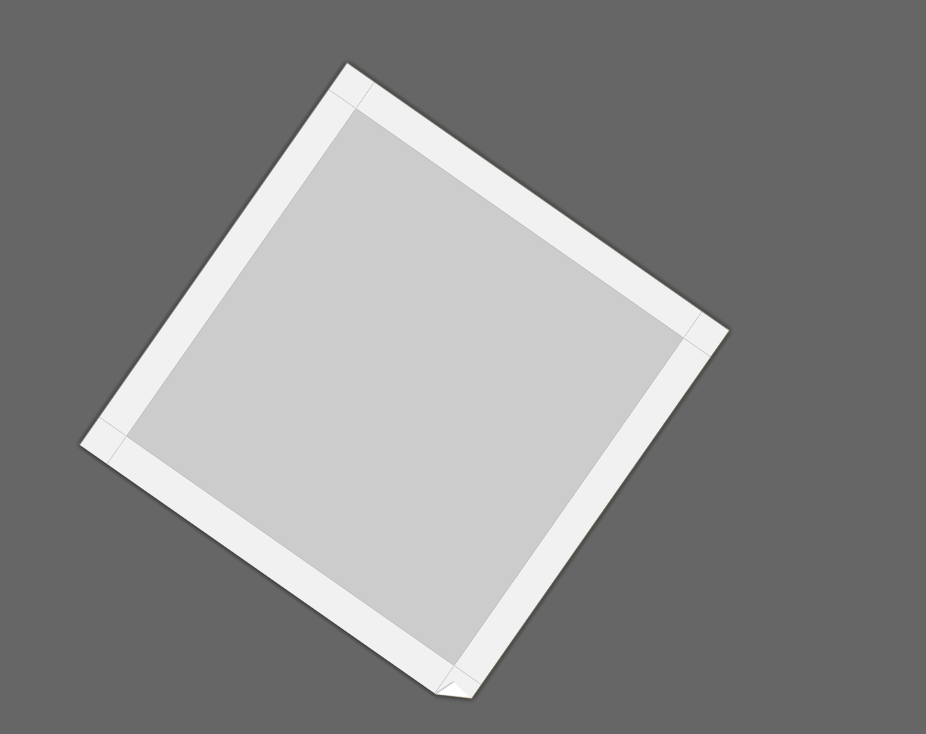
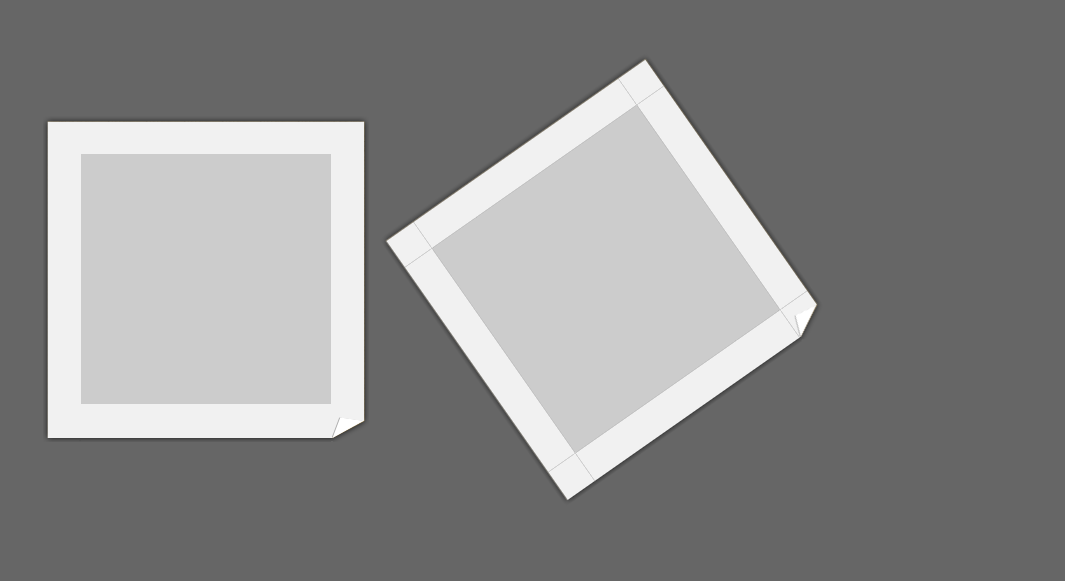
added screenshot

diff --git a/index.htm b/index.htm
@@ -5,16 +5,22 @@ body {
 }
 
 .sticker {
-    position: relative;
+    position: absolute;
     top: 200px;
-    left: 200px;
-    width: 400px;
-    height: 400px;
-    background: #ccc;
-    -moz-transform: rotate(35deg);
-    -o-transform: rotate(35deg);
-    -webkit-transform: rotate(35deg);
-    transform: rotate(35deg);
+    left: 100px;
+    width: 250px;
+    height: 250px;
+    background: #ccc;    
+}
+
+#sticker2 {
+    -moz-transform: rotate(-35deg);
+    -o-transform: rotate(-35deg);
+    -webkit-transform: rotate(-35deg);
+    transform: rotate(-35deg);
+    top: 200px;
+    left: 500px;
+    
 }
 
 
@@ -108,5 +114,17 @@ body {
     <div class="sticker-decoration sticker-ne"></div>
     <div class="sticker-decoration sticker-nw"></div>    
 </div>
+
+<div class="sticker" id="sticker2">
+    <div class="sticker-decoration sticker-n"></div>
+    <div class="sticker-decoration sticker-e"></div>
+    <div class="sticker-decoration sticker-s"></div>
+    <div class="sticker-decoration sticker-w"></div>
+    <div class="sticker-decoration sticker-se"></div>
+    <div class="sticker-decoration sticker-sw"></div>
+    <div class="sticker-decoration sticker-ne"></div>
+    <div class="sticker-decoration sticker-nw"></div>    
+</div>
+
 </body>
 </html>
